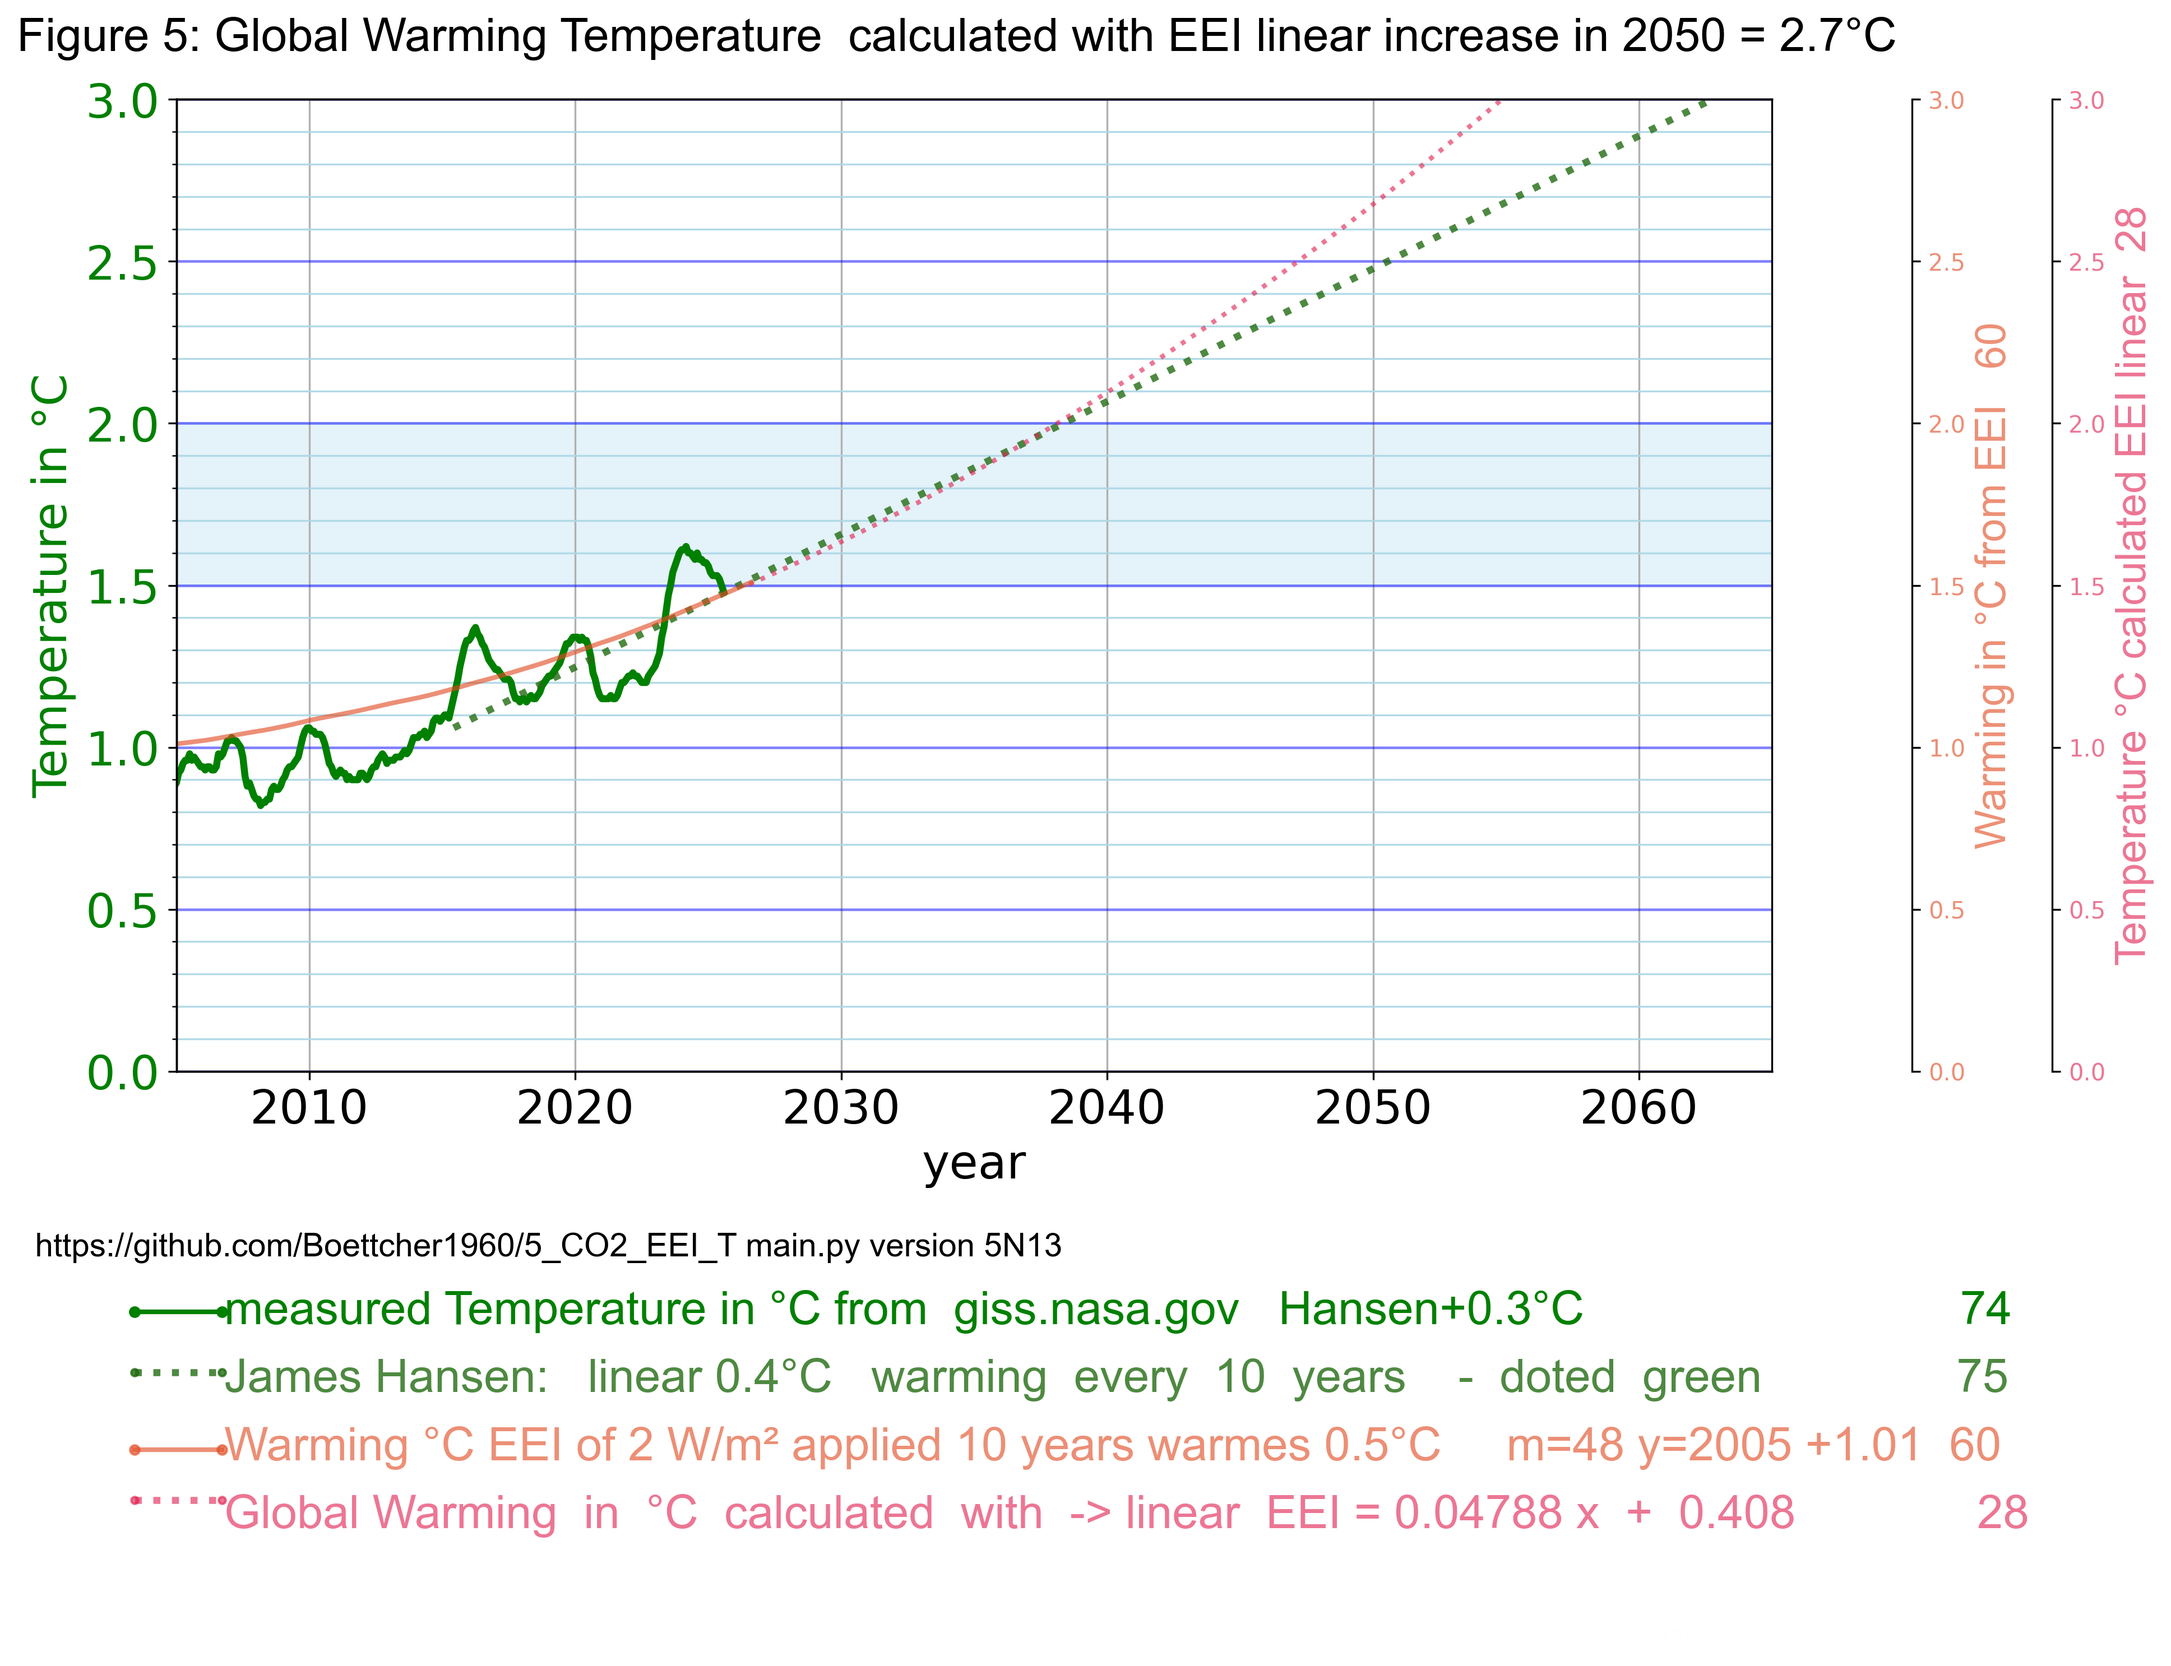
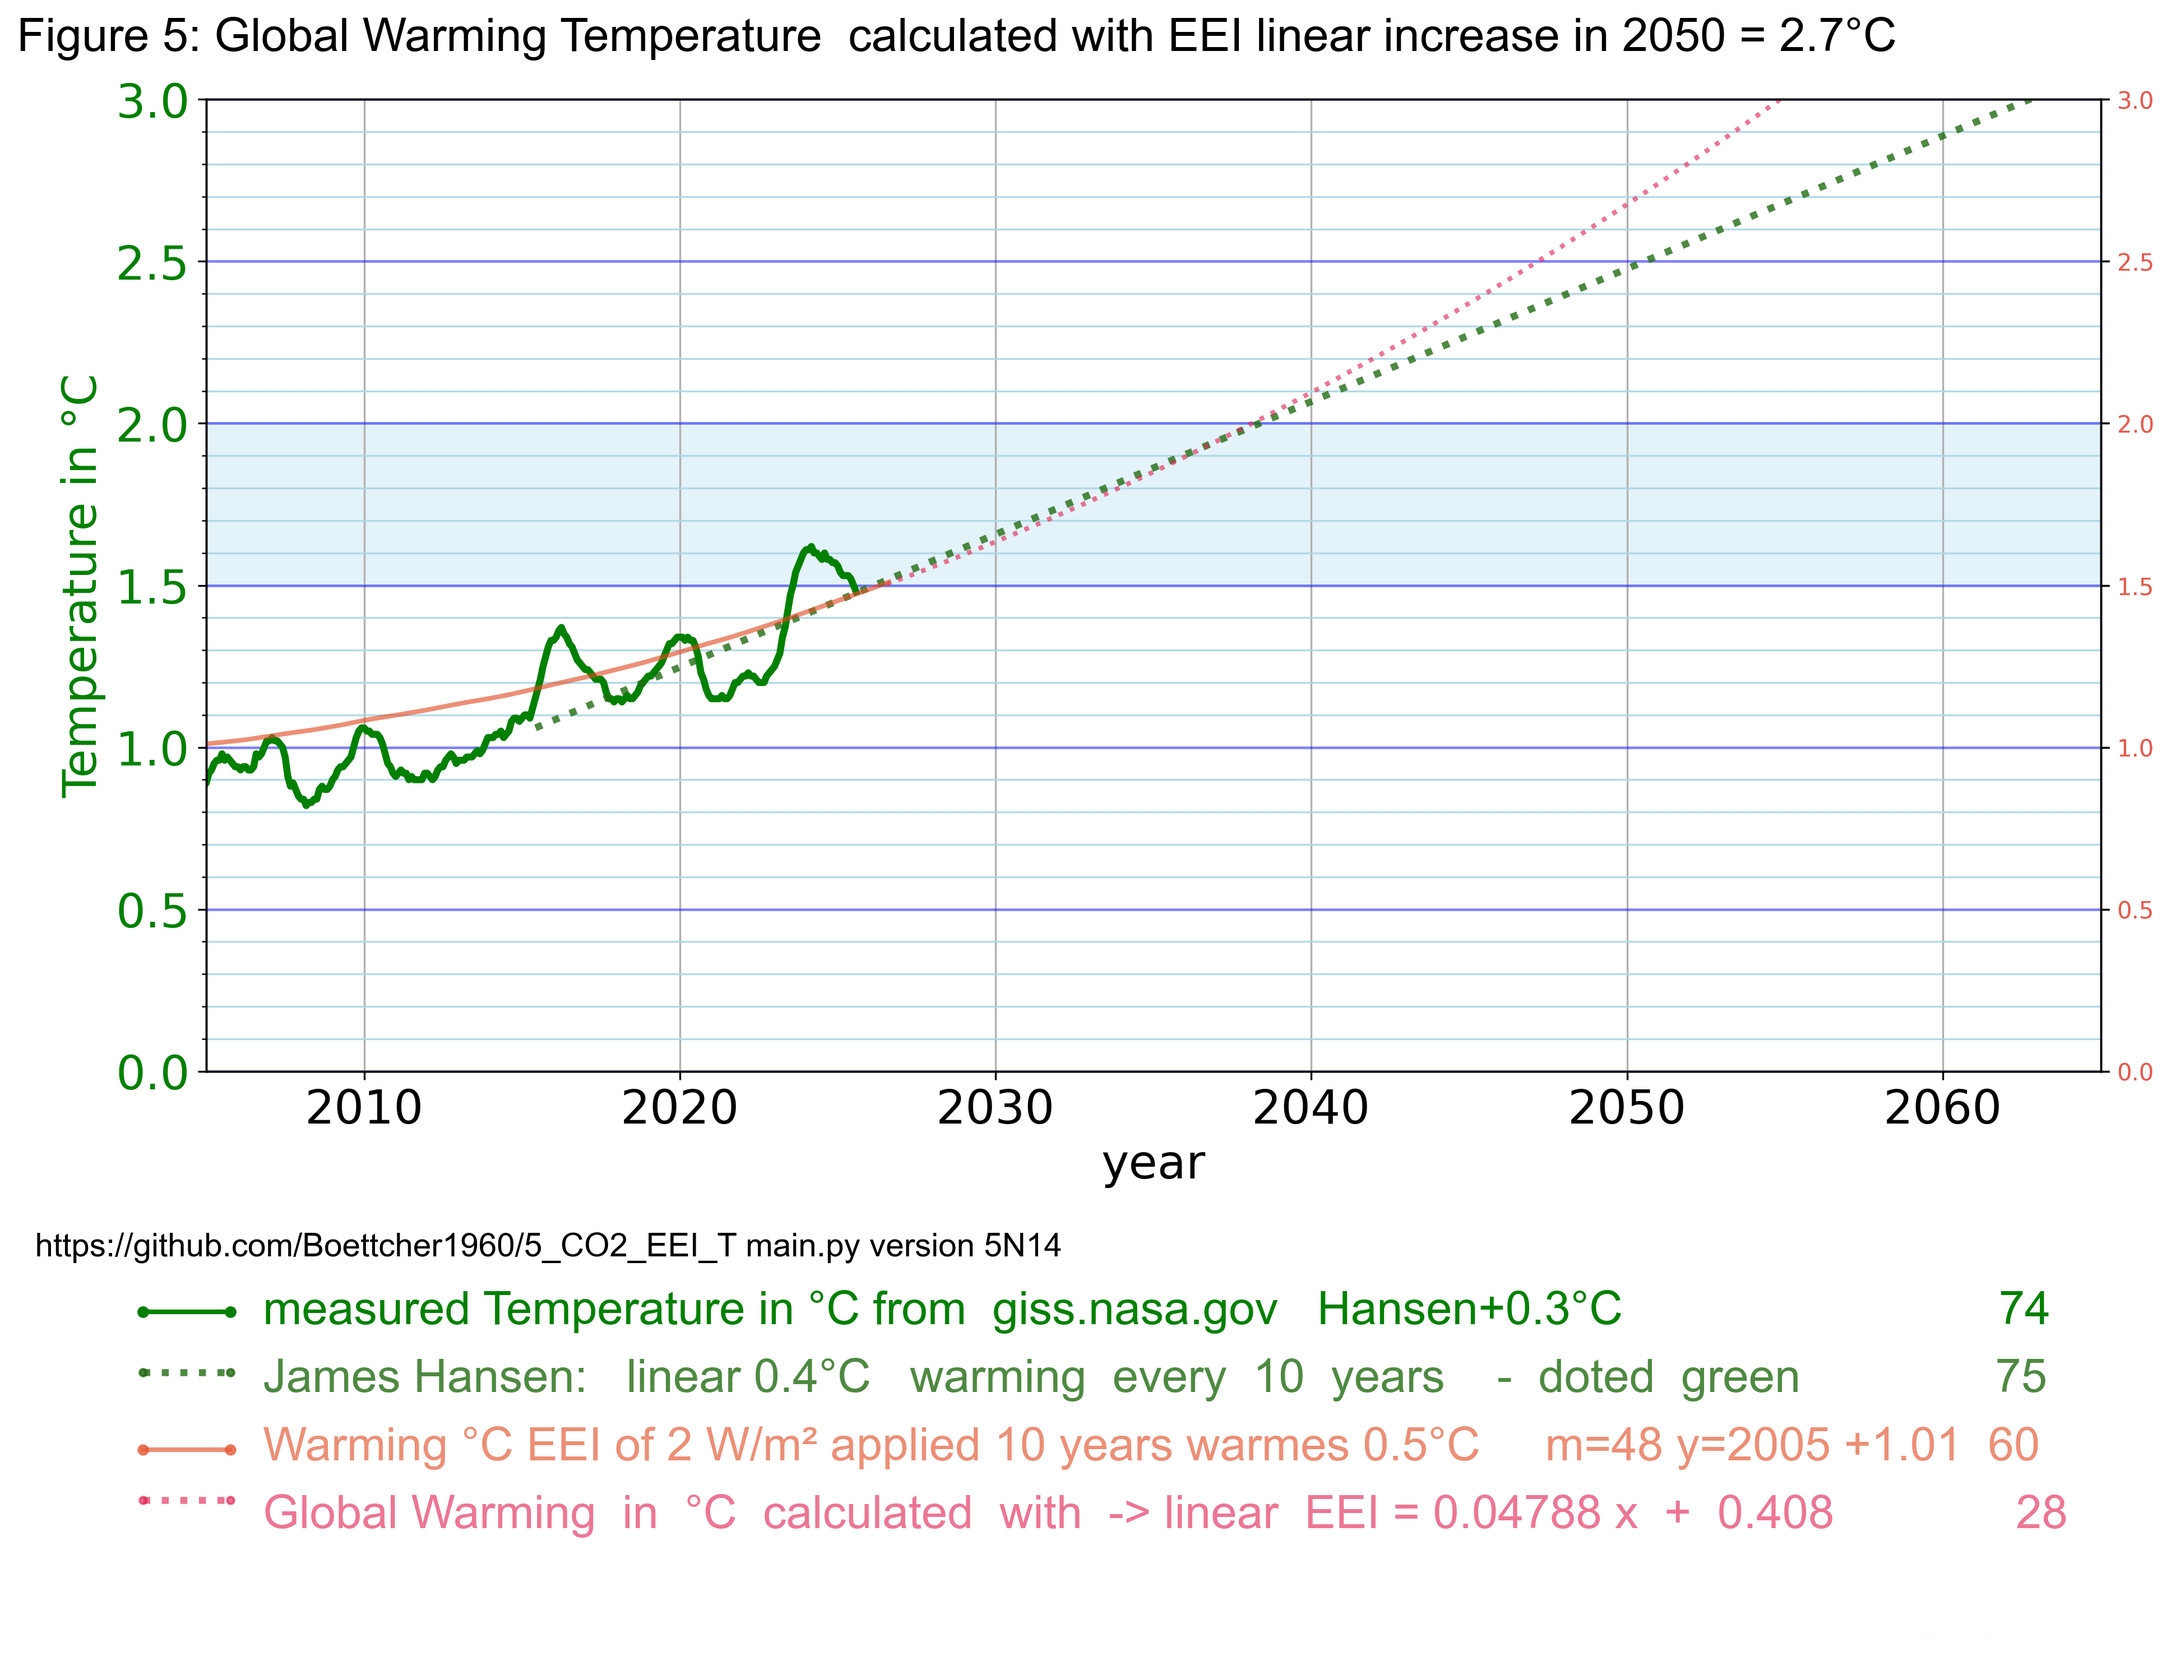
5N14

diff --git a/plotting.py b/plotting.py
@@ -935,7 +935,7 @@ def plot_9_create_all_plots(ax1, data):
          ax28.set_ylim(y_28min, y_28max)
          if print_debug > 9:
            print(f"plot_1242: ax28 28.8 ={plot28_E_T}")
-         if plot28_E_T > 2 and line2_play != 28:
+         if plot28_E_T > 2 and figure100 < 99:
            plot8_right_y_axe_for_C_28( ax28 , 0 ) # 28.4 line 967
 
     if plot29_ETq > 0:
@@ -1347,7 +1347,8 @@ def plot_9_create_all_plots(ax1, data):
          ax60.set_ylim(y_60min, y_60max)
          if print_debug > 9:
            print(f"plot_1242: ax60 60.8 ={play_60_T_E}")
-         if play_60_T_E > 2 and line2_play != 60:
+           # and figure100 < 99:
+         if (play_60_T_E > 2 and line2_play != 60) and figure100 < 99:
            plot8_right_y_axe_for_C_60( ax60 , 0 ) # 60.4 line 967
 
 

diff --git a/main.py b/main.py
@@ -1,5 +1,5 @@
 # main.py
-v = "5N13" #  text_add_dashed_line(fig, x1, x2, y, color, linewidth=2, marker="o", markersize=3):
+v = "5N14" #  text_add_dashed_line(fig, x1, x2, y, color, linewidth=2, marker="o", markersize=3):
 #
 #
 #
